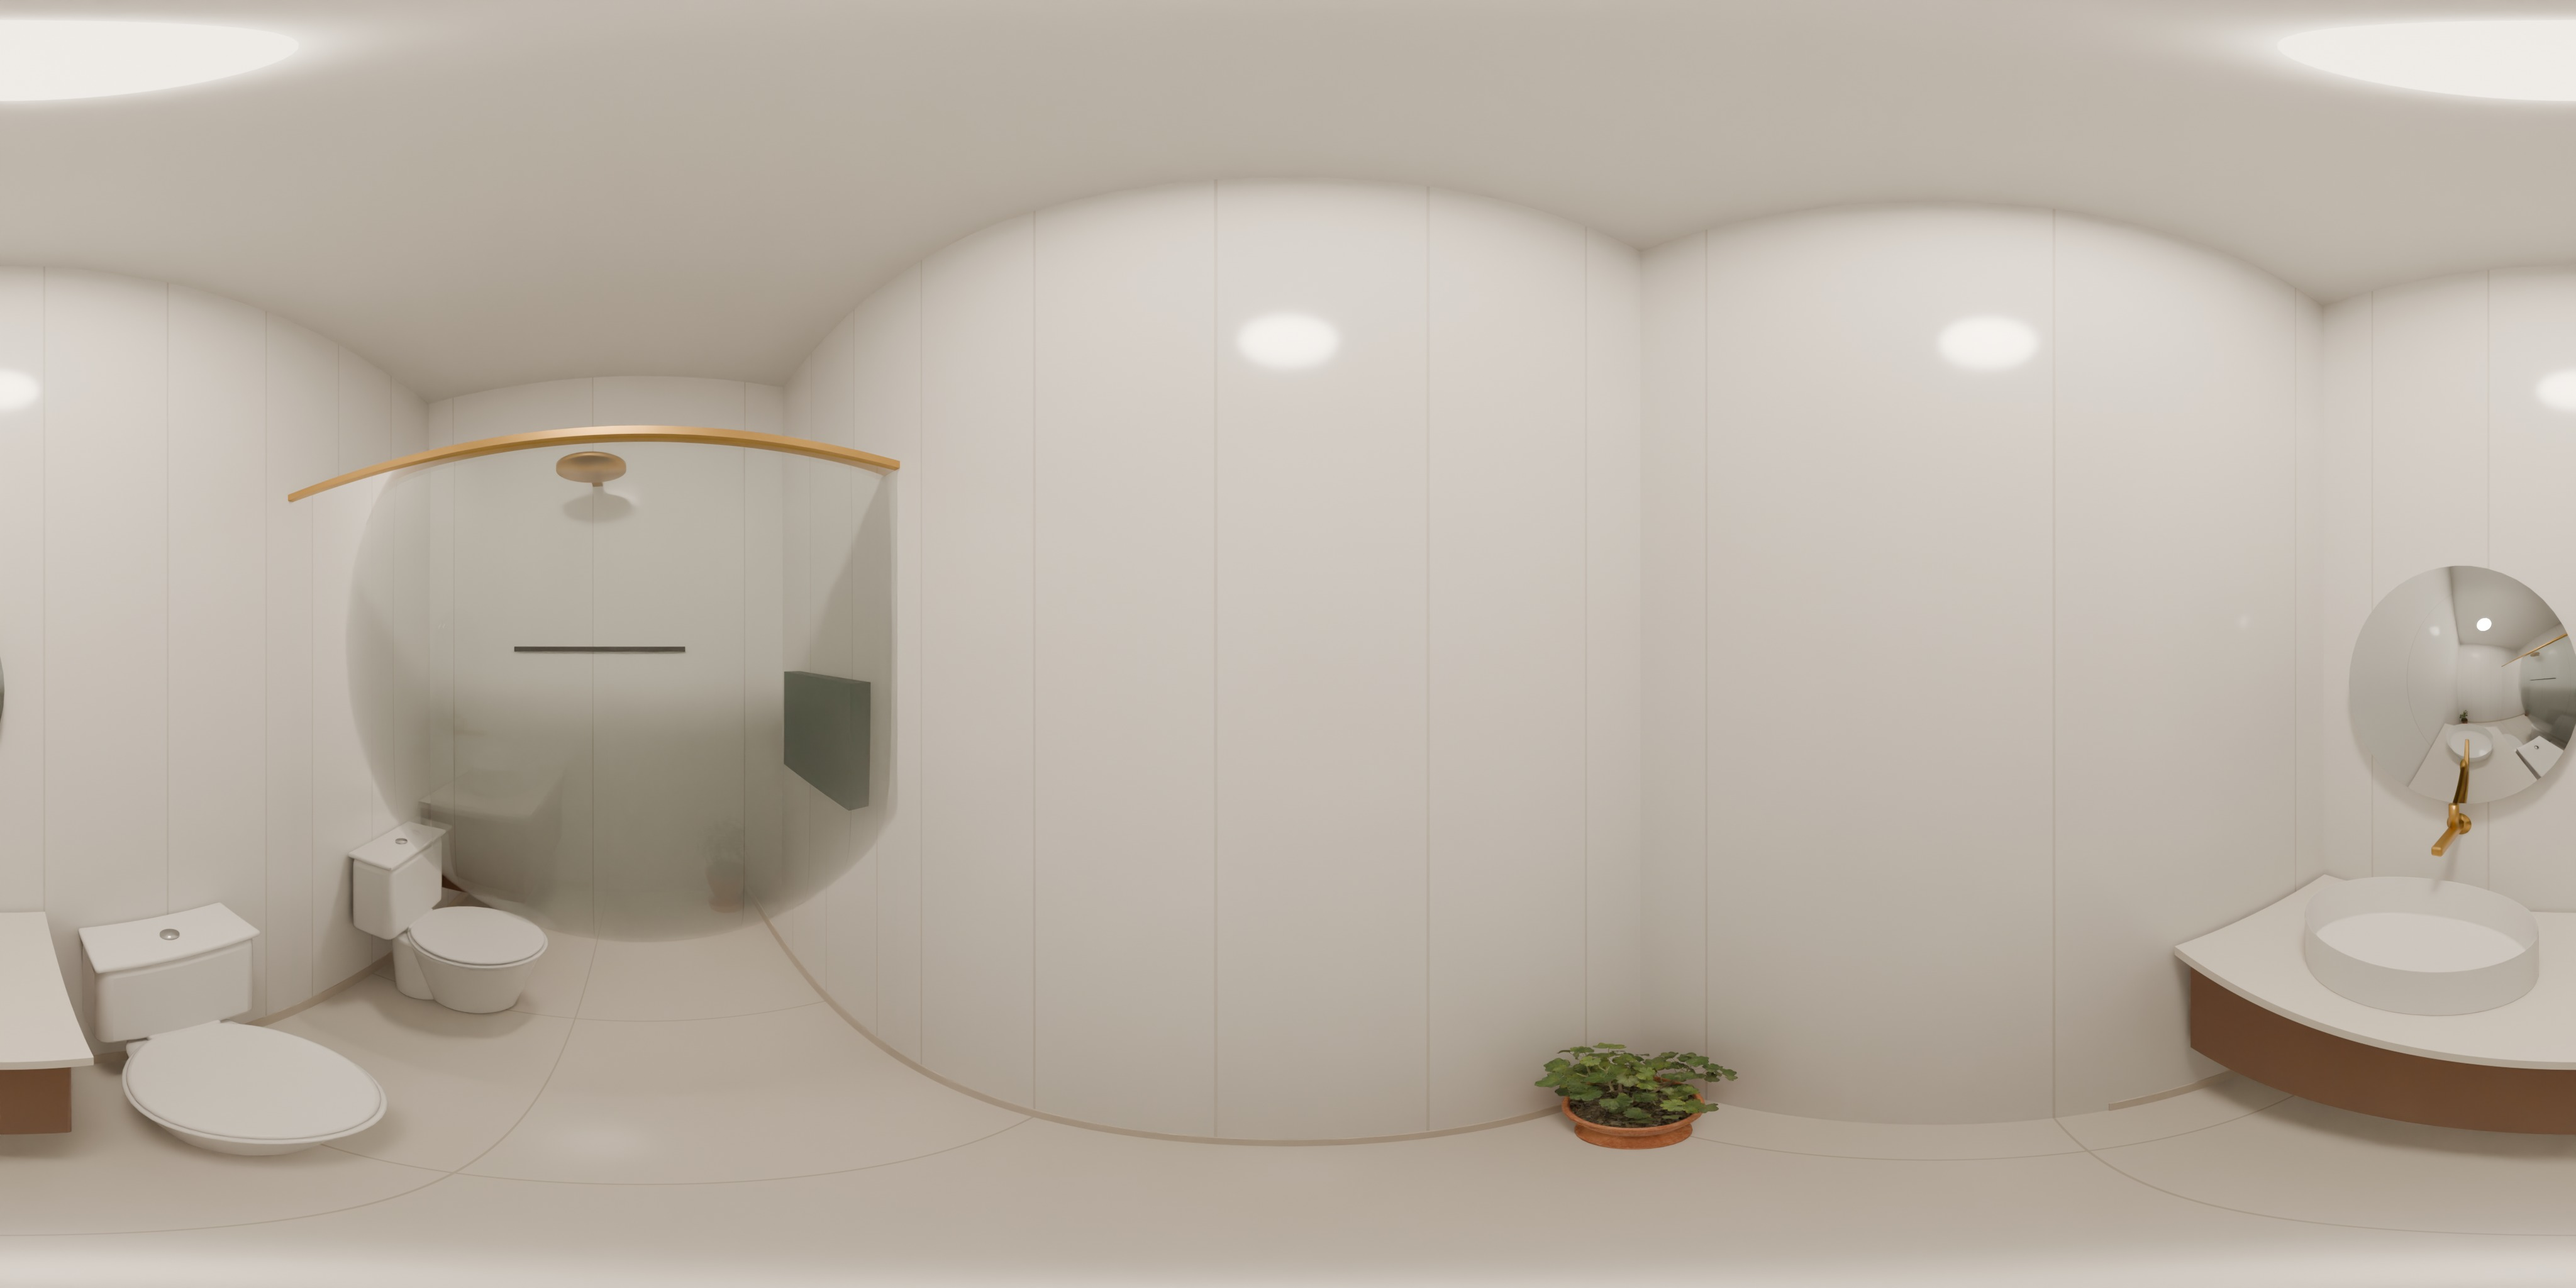
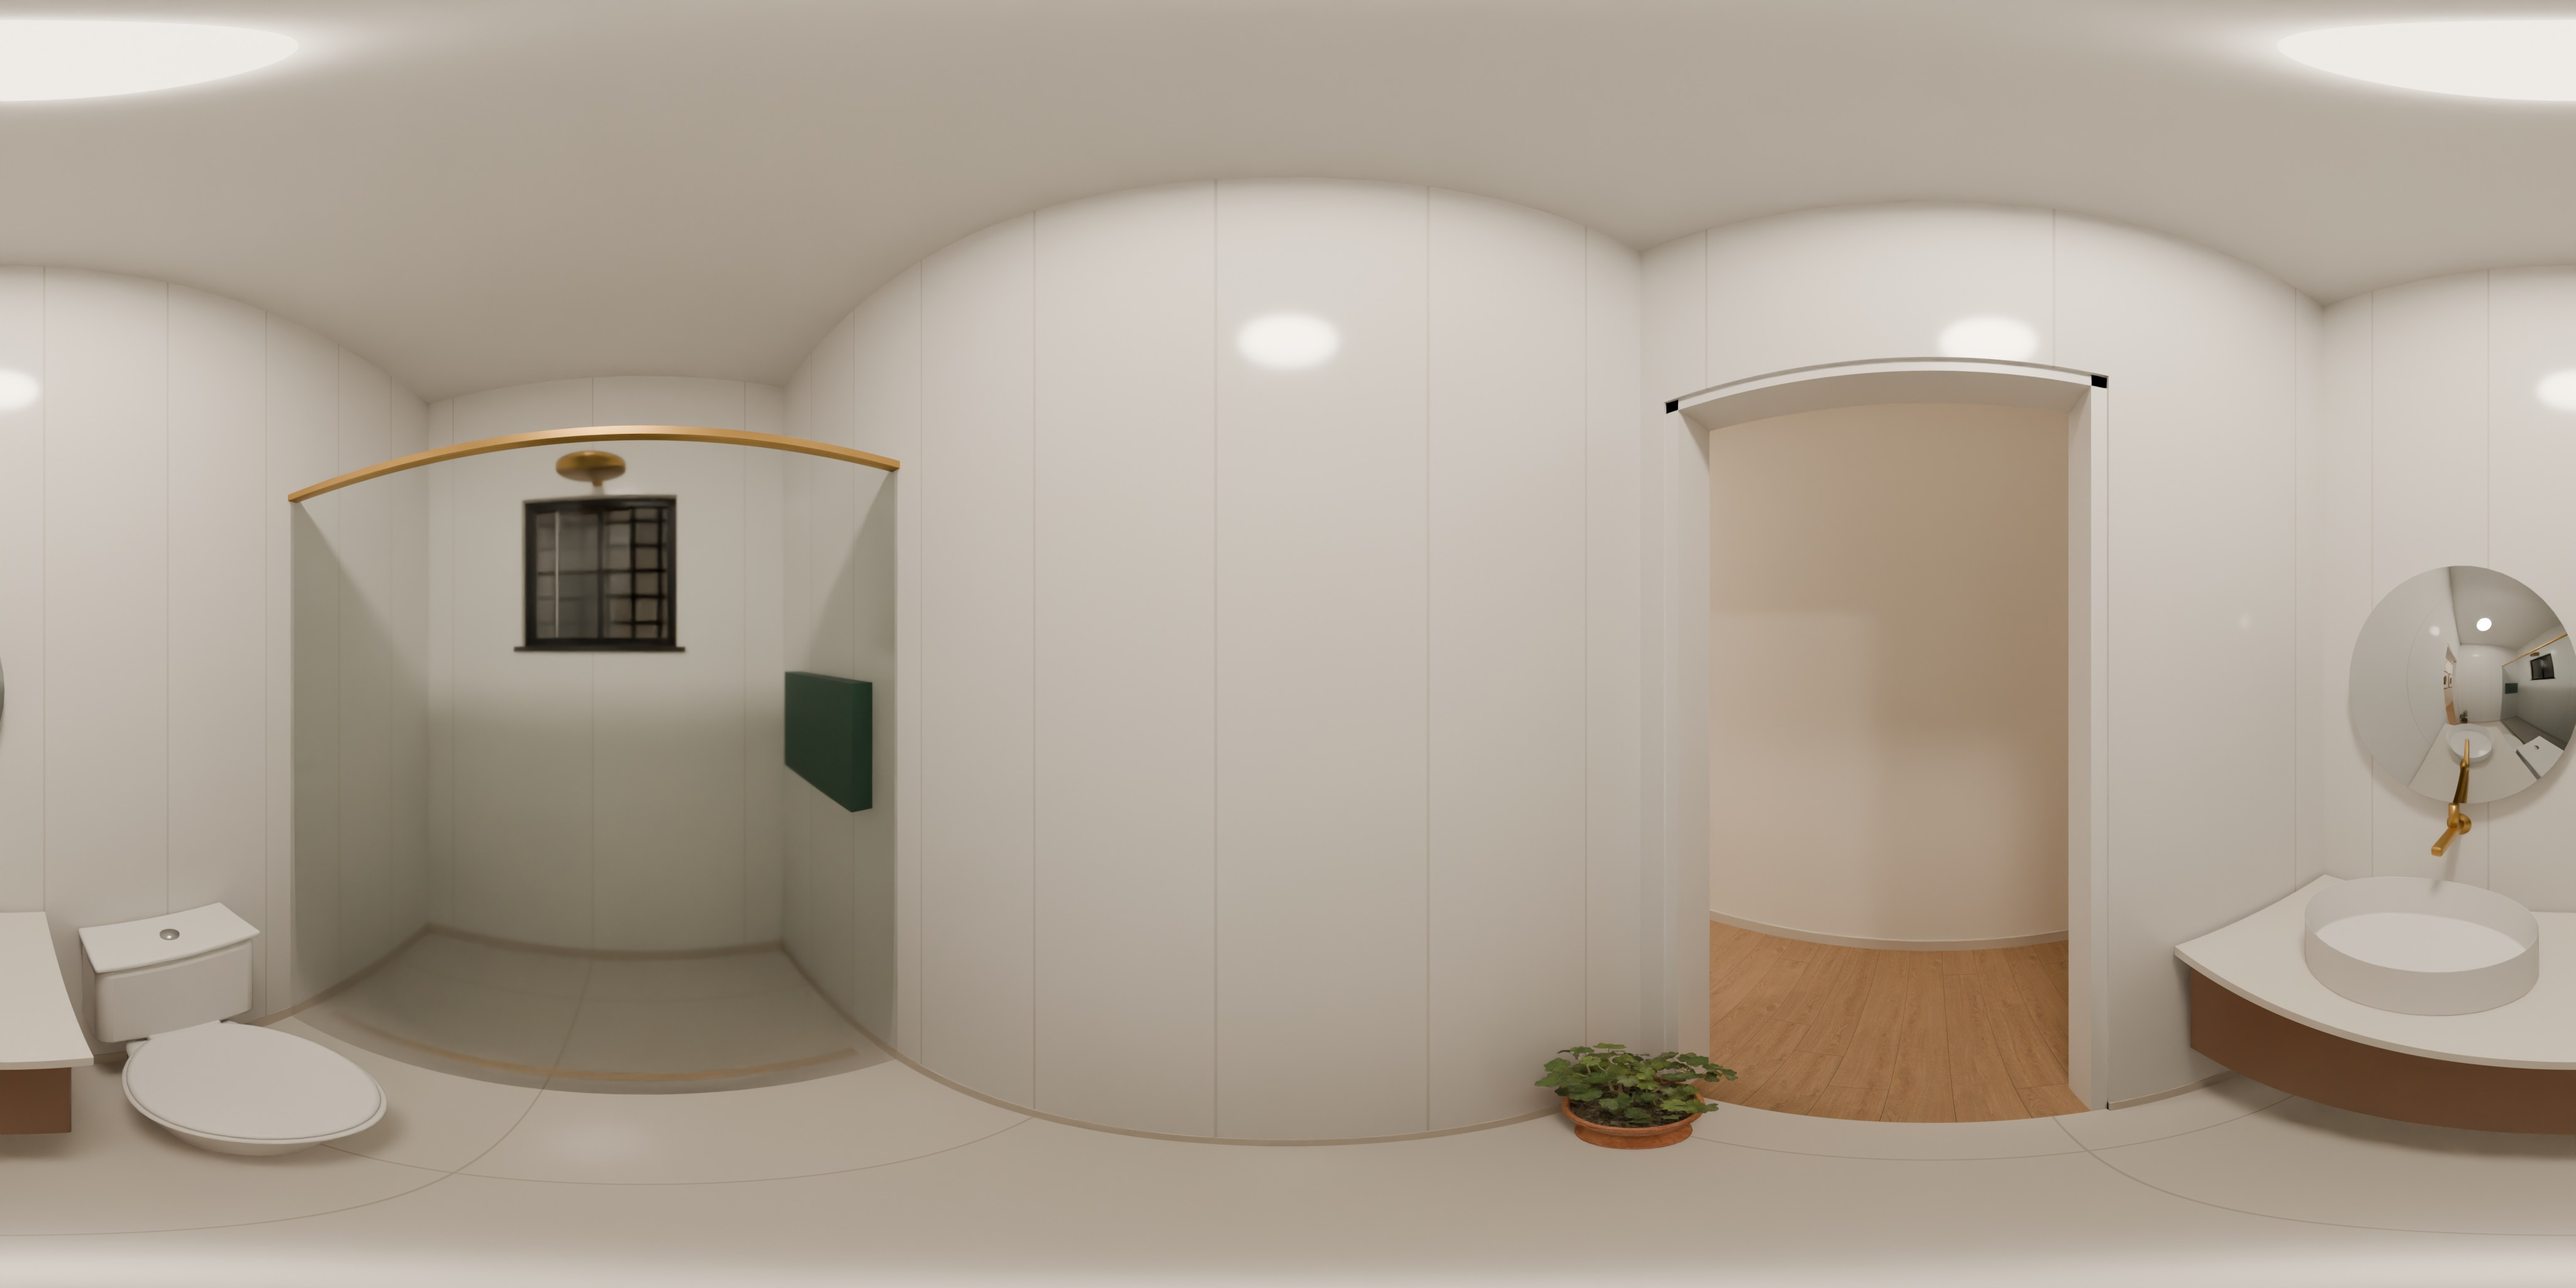
Tour 3D: auditoria 29/09 (porta do banheiro, box jateado, lavanderia 2Q, setas e cameras alinhadas, halls e estacionamento atualizados)

diff --git a/index.html b/index.html
@@ -143,26 +143,26 @@ const CENAS = {
   q_servico: {tipo:"q3", nome:"Área de serviço", area:"tanque e lava e seca", pano:"3q_lavanderia", x:[2.52,4.55], y:[0,1.38], cam:[3.62,1.26], yaw:-75},
   q_banheiro:{tipo:"q3", nome:"Banheiro", area:"3,39", pano:"3q_banheiro", x:[4.67,6.17], y:[1.50,3.76], cam:[5.60,3.10], yaw:-120},
   q_corredor:{tipo:"q3", nome:"Circulação", area:"5,73", pano:"3q_corredor", x:[4.67,11.04], y:[3.88,4.78], cam:[7.85,4.33], yaw:180},
-  q_quarto3: {tipo:"q3", nome:"Quarto", area:"9,02", pano:"3q_quarto3", x:[6.29,8.69], y:[0,3.76], cam:[7.60,3.30], yaw:-150},
-  q_quarto2: {tipo:"q3", nome:"Escritório ou hóspedes", area:"7,02", pano:"3q_quarto2", x:[8.81,11.92], y:[1.50,3.76], cam:[9.90,3.05], yaw:-110},
-  q_quarto1: {tipo:"q3", nome:"Quarto do casal", area:"12,37", pano:"3q_quarto1", x:[12.04,14.44], y:[0,4.78], cam:[13.25,3.95], yaw:-150},
+  q_quarto3: {tipo:"q3", nome:"Quarto", area:"9,02", pano:"3q_quarto3", x:[6.29,8.69], y:[0,3.76], cam:[6.95,3.20], yaw:-150},
+  q_quarto2: {tipo:"q3", nome:"Escritório ou hóspedes", area:"7,02", pano:"3q_quarto2", x:[8.81,11.92], y:[1.50,3.76], cam:[10.05,3.30], yaw:-110},
+  q_quarto1: {tipo:"q3", nome:"Quarto do casal", area:"12,37", pano:"3q_quarto1", x:[12.04,14.44], y:[0,4.78], cam:[12.95,3.75], yaw:-150},
 
   t_sala:    {tipo:"terreo", nome:"Sala", area:"11,47", pano:"t_sala", x:[0,2.40], y:[0,4.78], cam:[1.10,3.30], yaw:-35},
   t_cozinha: {tipo:"terreo", nome:"Cozinha", area:"10,03", pano:"t_cozinha", x:[2.52,4.55], y:[1.38,4.78], cam:[3.45,3.00], yaw:-90},
   t_servico: {tipo:"terreo", nome:"Área de serviço", area:"tanque e lava e seca", pano:"t_lavanderia", x:[2.52,4.55], y:[0,1.38], cam:[3.62,1.26], yaw:-75},
   t_banheiro:{tipo:"terreo", nome:"Banheiro", area:"3,39", pano:"t_banheiro", x:[4.67,6.17], y:[1.50,3.76], cam:[5.60,3.10], yaw:-120},
   t_corredor:{tipo:"terreo", nome:"Circulação", area:"5,73", pano:"t_corredor", x:[4.67,11.04], y:[3.88,4.78], cam:[7.85,4.33], yaw:180},
-  t_quarto3: {tipo:"terreo", nome:"Quarto", area:"9,02", pano:"t_quarto3", x:[6.29,8.69], y:[0,3.76], cam:[7.60,3.30], yaw:-60},
-  t_quarto2: {tipo:"terreo", nome:"Escritório ou hóspedes", area:"7,02", pano:"t_quarto2", x:[8.81,11.92], y:[1.50,3.76], cam:[10.40,3.10], yaw:-90},
+  t_quarto3: {tipo:"terreo", nome:"Quarto", area:"9,02", pano:"t_quarto3", x:[6.29,8.69], y:[0,3.76], cam:[6.95,3.20], yaw:-60},
+  t_quarto2: {tipo:"terreo", nome:"Escritório ou hóspedes", area:"7,02", pano:"t_quarto2", x:[8.81,11.92], y:[1.50,3.76], cam:[10.60,2.95], yaw:-90},
   t_patio:   {tipo:"terreo", nome:"Pátio privativo", area:"4,29", pano:"t_patio", x:[8.81,11.92], y:[0,1.38], cam:[9.15,0.95], yaw:0},
-  t_quarto1: {tipo:"terreo", nome:"Quarto do casal", area:"12,37", pano:"t_quarto1", x:[12.04,14.44], y:[0,4.78], cam:[13.25,3.95], yaw:-150},
+  t_quarto1: {tipo:"terreo", nome:"Quarto do casal", area:"12,37", pano:"t_quarto1", x:[12.04,14.44], y:[0,4.78], cam:[12.95,3.75], yaw:-150},
 
   d_sala:    {tipo:"q2", nome:"Sala e jantar", area:"14,02", pano:"2q_sala", x:[3.42,7.28], y:[3.30,6.76], cam:[5.60,4.55], yaw:180},
   d_cozinha: {tipo:"q2", nome:"Cozinha", area:"6,73", pano:"2q_cozinha", x:[0,3.42], y:[3.42,5.39], cam:[1.70,4.70], yaw:-90},
   d_servico: {tipo:"q2", nome:"Área de serviço", area:"3,12", pano:"2q_servico", x:[0,2.50], y:[5.51,6.76], cam:[1.00,5.90], yaw:90},
   d_banheiro:{tipo:"q2", nome:"Banheiro", area:"2,98", pano:"2q_banheiro", x:[2.97,4.31], y:[0,2.23], cam:[3.85,1.55], yaw:-120},
   d_quarto1: {tipo:"q2", nome:"Quarto do casal", area:"9,40", pano:"2q_quarto1", x:[4.43,7.28], y:[0,3.30], cam:[4.95,2.35], yaw:-30},
-  d_quarto2: {tipo:"q2", nome:"Quarto com varanda", area:"9,40", pano:"2q_quarto2", x:[0,2.85], y:[0,3.30], cam:[1.45,2.38], yaw:-90},
+  d_quarto2: {tipo:"q2", nome:"Quarto com varanda", area:"9,40", pano:"2q_quarto2", x:[0,2.85], y:[0,3.30], cam:[2.45,2.55], yaw:-90},
   d_varanda: {tipo:"q2", nome:"Varanda", area:"3,62", pano:"2q_varanda", x:[-1.12,-0.12], y:[-0.16,3.46], cam:[-0.45,2.70], yaw:-90}
 };
 // passagens: [destino, ponto na planta DESTA cena, rótulo opcional, yaw ao chegar opcional]
@@ -172,14 +172,14 @@ const PASSAGENS = {
   hall_andar:[["hall_terreo",[-1.90,3.4],"Descer",90],["q_sala",[-0.06,4.20],"Apto 201 · 301",0],["q_sala",[-0.06,5.56],"Apto 202 · 302",0],["d_sala",[-2.52,7.78],"Apto 203 · 303",180]],
 
   q_sala:[["q_cozinha",[2.46,3.70]],["hall_andar",[-0.06,4.20],"Sair para o hall",180]],
-  q_cozinha:[["q_sala",[2.46,3.70]],["q_corredor",[4.61,4.33]],["q_servico",[3.62,1.44],"Área de serviço",-75]],
-  q_servico:[["q_cozinha",[3.62,1.44],"Cozinha",90]],
+  q_cozinha:[["q_sala",[2.46,3.70]],["q_corredor",[4.10,4.40]],["q_servico",[3.62,1.44],"Área de serviço",-75]],
+  q_servico:[["q_cozinha",[3.62,2.10],"Cozinha",90]],
   q_corredor:[["q_cozinha",[4.61,4.33]],["q_banheiro",[5.70,3.82]],["q_quarto3",[6.75,3.82]],["q_quarto2",[9.26,3.82]],["q_quarto1",[10.98,4.33]]],
   q_banheiro:[["q_corredor",[5.70,3.82]]], q_quarto3:[["q_corredor",[6.75,3.82]]], q_quarto2:[["q_corredor",[9.26,3.82]]], q_quarto1:[["q_corredor",[10.98,4.33]]],
 
   t_sala:[["t_cozinha",[2.46,3.70]],["hall_terreo",[-0.06,4.20],"Sair para o hall",180]],
-  t_cozinha:[["t_sala",[2.46,3.70]],["t_corredor",[4.61,4.33]],["t_servico",[3.62,1.44],"Área de serviço",-75]],
-  t_servico:[["t_cozinha",[3.62,1.44],"Cozinha",90]],
+  t_cozinha:[["t_sala",[2.46,3.70]],["t_corredor",[4.10,4.40]],["t_servico",[3.62,1.44],"Área de serviço",-75]],
+  t_servico:[["t_cozinha",[3.62,2.10],"Cozinha",90]],
   t_corredor:[["t_cozinha",[4.61,4.33]],["t_banheiro",[5.70,3.82]],["t_quarto3",[6.75,3.82]],["t_quarto2",[9.26,3.82]],["t_quarto1",[10.98,4.33]]],
   t_banheiro:[["t_corredor",[5.70,3.82]]],
   t_quarto3:[["t_corredor",[6.75,3.82]],["t_patio",[8.69,0.69],"Pátio"]],
@@ -187,8 +187,8 @@ const PASSAGENS = {
   t_patio:[["t_quarto3",[8.69,0.69]],["t_quarto2",[10.36,1.44]]],
   t_quarto1:[["t_corredor",[10.98,4.33]]],
 
-  d_sala:[["d_cozinha",[3.40,4.90]],["d_quarto1",[4.15,3.25]],["d_banheiro",[3.64,3.05]],["d_quarto2",[3.10,3.25]],["hall_andar",[7.34,6.28],"Sair para o hall",0]],
-  d_cozinha:[["d_sala",[3.40,4.90]],["d_servico",[0.45,5.45]]],
+  d_sala:[["d_cozinha",[3.40,4.90]],["d_quarto1",[4.10,3.30]],["d_banheiro",[3.64,3.05]],["d_quarto2",[3.10,3.25]],["hall_andar",[7.34,6.28],"Sair para o hall",0]],
+  d_cozinha:[["d_sala",[3.40,4.90]],["d_servico",[0.45,5.15]]],
   d_servico:[["d_cozinha",[0.45,5.45]]],
   d_banheiro:[["d_sala",[3.85,2.29]]], d_quarto1:[["d_sala",[4.37,2.85]]],
   d_quarto2:[["d_sala",[2.91,2.85]],["d_varanda",[-0.06,1.65]]],
